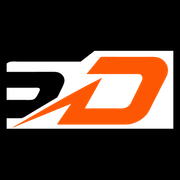
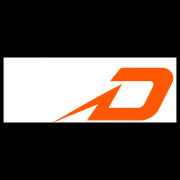
Update SD isotipo and refine storefront labels and WhatsApp button.
Use the official WhatsApp icon, drop the free-shipping announce copy, and show Jerseys(Laminados) on the home category card.

Changed region(s): [[0.0, 0.2778, 1.0, 0.7222]]

diff --git a/src/components/SiteChrome.jsx b/src/components/SiteChrome.jsx
@@ -48,8 +48,7 @@ function SiteChrome({ activeNav, children }) {
       </a>
 
       <div className="announce-bar" data-announce-bar>
-        ENVIO GRATIS en pedidos desde RD$2,000 · Paga por transferencia bancaria o{" "}
-        <strong>WhatsApp</strong>
+        Paga por transferencia bancaria o <strong>WhatsApp</strong>
       </div>
 
       <header
@@ -79,7 +78,7 @@ function SiteChrome({ activeNav, children }) {
             Accesorios
           </a>
           <a href="/jerseys" className={navClass(activeNav, "jerseys")}>
-            Jerseys(Laminados)
+            Jerseys
           </a>
           <a
             href="/nuevas-colecciones"
@@ -492,7 +491,9 @@ function SiteChrome({ activeNav, children }) {
         rel="noopener"
         aria-label="Escribenos por WhatsApp"
       >
-        💬
+        <svg viewBox="0 0 24 24" aria-hidden="true" focusable="false">
+          <path d="M17.472 14.382c-.297-.149-1.758-.867-2.03-.967-.273-.099-.471-.148-.67.15-.197.297-.767.966-.94 1.164-.173.199-.347.223-.644.075-.297-.15-1.255-.463-2.39-1.475-.883-.788-1.48-1.761-1.653-2.059-.173-.297-.018-.458.13-.606.134-.133.298-.347.446-.52.149-.174.198-.298.298-.497.099-.198.05-.371-.025-.52-.075-.149-.669-1.612-.916-2.207-.242-.579-.487-.5-.669-.51-.173-.008-.371-.01-.57-.01-.198 0-.52.074-.792.372-.272.297-1.04 1.016-1.04 2.479 0 1.462 1.065 2.875 1.213 3.074.149.198 2.096 3.2 5.077 4.487.709.306 1.262.489 1.694.625.712.227 1.36.195 1.871.118.571-.085 1.758-.719 2.006-1.413.248-.694.248-1.289.173-1.413-.074-.124-.272-.198-.57-.347m-5.421 7.403h-.004a9.87 9.87 0 01-5.031-1.378l-.361-.214-3.741.982.998-3.648-.235-.374a9.86 9.86 0 01-1.51-5.26c.001-5.45 4.436-9.884 9.888-9.884 2.64 0 5.122 1.03 6.988 2.898a9.825 9.825 0 012.893 6.994c-.003 5.45-4.435 9.884-9.885 9.884m8.413-18.297A11.815 11.815 0 0012.05 0C5.495 0 .16 5.335.157 11.892c0 2.096.547 4.142 1.588 5.945L.057 24l6.305-1.654a11.882 11.882 0 005.683 1.448h.005c6.554 0 11.89-5.335 11.893-11.893a11.821 11.821 0 00-3.48-8.413z" />
+        </svg>
       </a>
     </>
   );

diff --git a/src/styles.css b/src/styles.css
@@ -186,15 +186,20 @@ input { font: inherit; }
 }
 .brand { display: flex; align-items: center; gap: 10px; }
 .brand-mark {
-  width: 42px; height: 42px; border-radius: 50%;
-  background: var(--ink);
-  display: flex; align-items: center; justify-content: center;
-  overflow: hidden; flex: none;
+  width: 78px;
+  height: 36px;
+  border-radius: 8px;
+  background: #000;
+  display: flex;
+  align-items: center;
+  justify-content: center;
+  overflow: hidden;
+  flex: none;
 }
 .brand-mark img {
   width: 100%;
   height: 100%;
-  object-fit: cover;
+  object-fit: contain;
 }
 .brand-name {
   font: 800 clamp(12px, 3.6vw, 17px) var(--font-body); color: var(--ink); letter-spacing: -0.01em;
@@ -1154,10 +1159,17 @@ input { font: inherit; }
   position: fixed; right: 22px; bottom: 26px; z-index: 30;
   width: 56px; height: 56px; border-radius: 50%;
   background: var(--whatsapp);
+  color: #fff;
   display: flex; align-items: center; justify-content: center;
-  font-size: 26px;
   filter: drop-shadow(0 8px 18px rgba(0,0,0,0.35));
   transition: transform 0.25s var(--ease-bounce);
+}
+.whatsapp-fab svg {
+  position: relative;
+  z-index: 1;
+  width: 28px;
+  height: 28px;
+  fill: currentColor;
 }
 .whatsapp-fab:hover { transform: scale(1.08); }
 .whatsapp-fab::before {

diff --git a/src/pages/HomeNativePage.jsx b/src/pages/HomeNativePage.jsx
@@ -107,7 +107,7 @@ function HomeNativePage() {
                       Colecciones
                     </>
                   ) : (
-                    category.title
+                    category.homeLabel || category.title
                   )}
                 </span>
                 {category.featured && (

diff --git a/src/data/categoryRoutes.js b/src/data/categoryRoutes.js
@@ -52,6 +52,7 @@ export const categoryRoutes = {
     slug: "JERSEY",
     navKey: "jerseys",
     title: "Jerseys",
+    homeLabel: "Jerseys(Laminados)",
     crumb: "Jerseys",
     subtitle: "MLB y LIDOM. Elige version, color y talla en la pagina del producto.",
     image: "assets/img/cat-jerseys.png",
